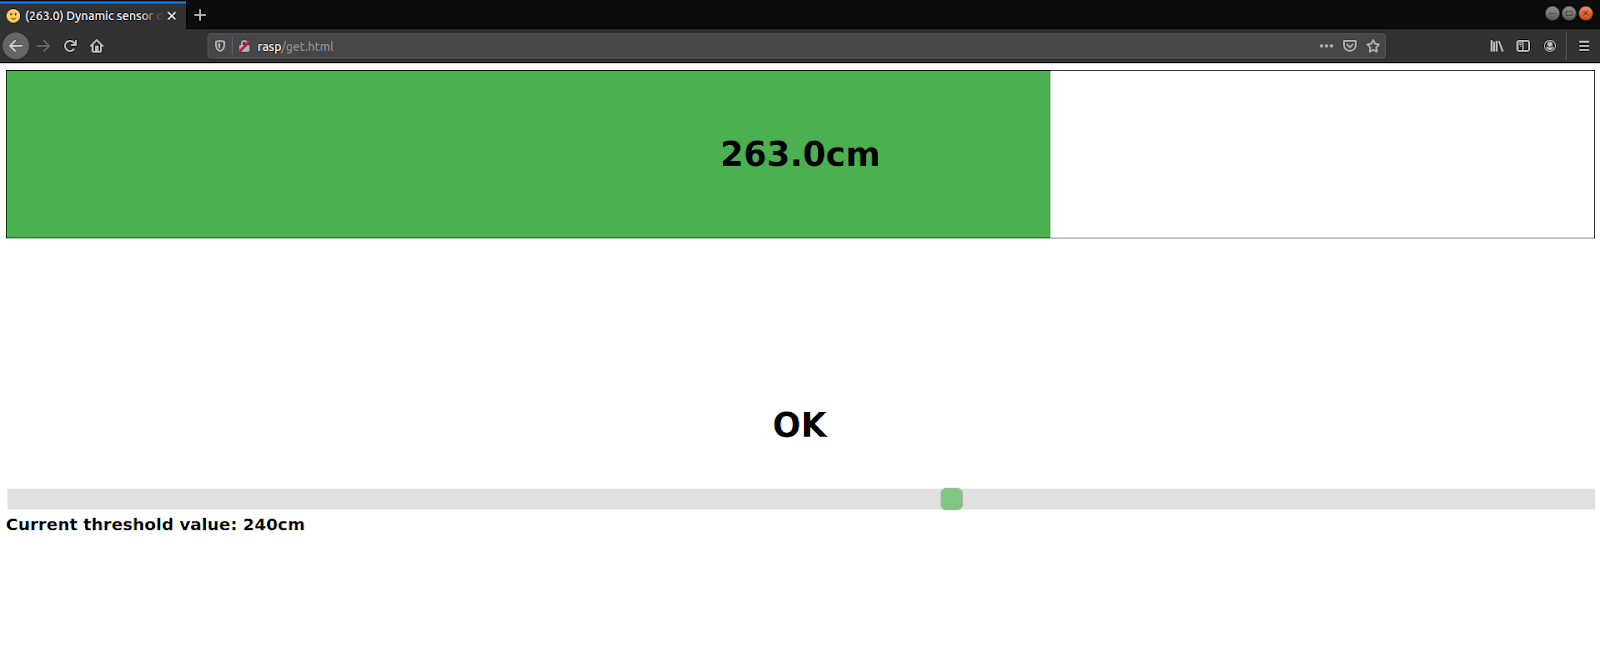
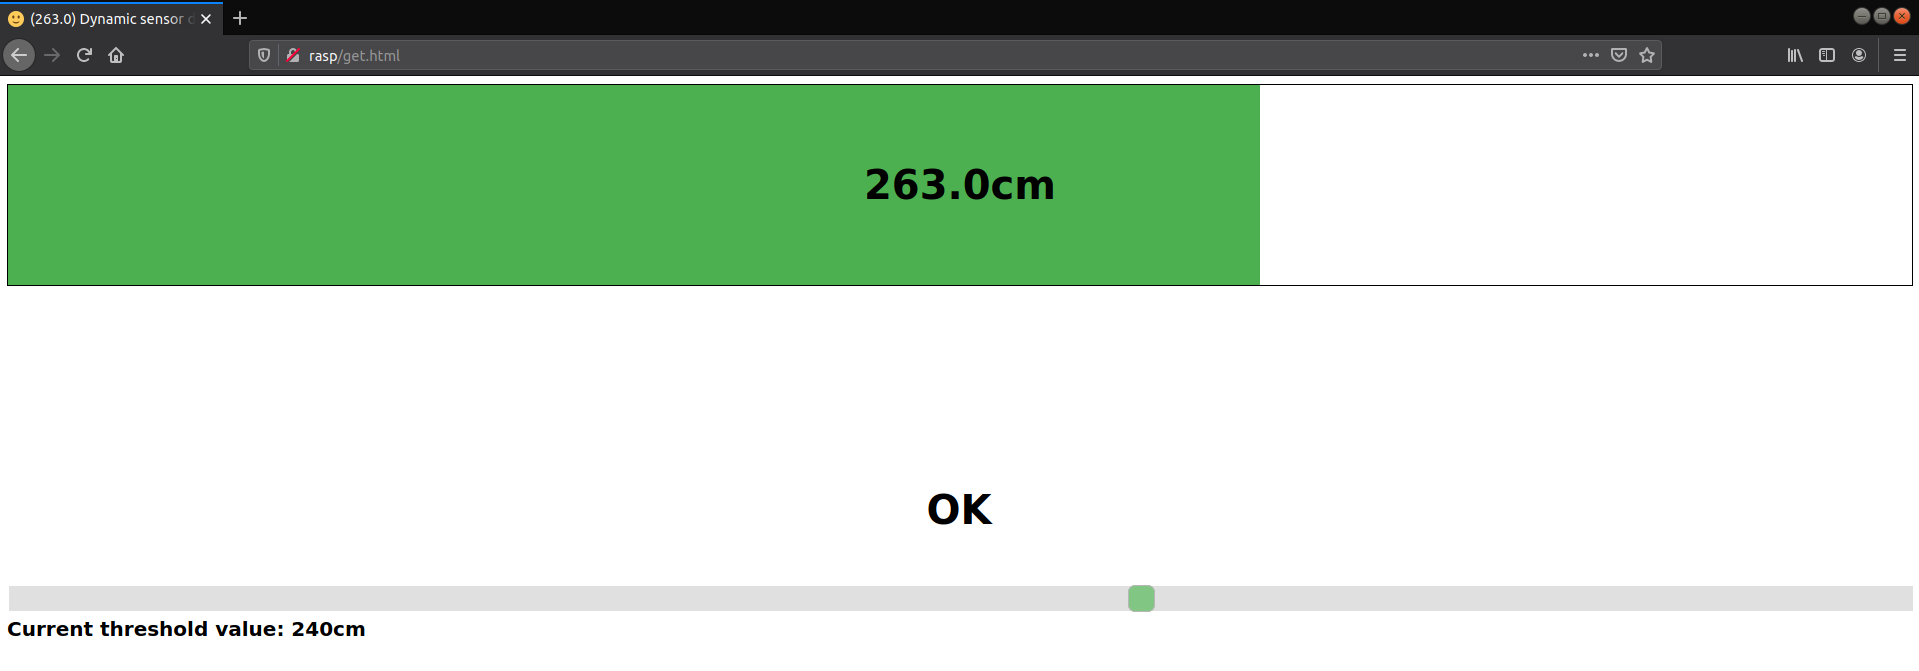
detail update

diff --git a/get.html b/get.html
@@ -35,7 +35,7 @@
 
   	<div class="progress-bar">
   		<div class="result" id ="sensor-data"></div>
-  		<div class = "progress-bar-fill"></div>
+  		<div class = "progress-bar-fill" id = "bar-fill"></div>
     </div>
 
     <div style = "margin-top: 200px; width: 100%; text-align: center">
@@ -104,9 +104,11 @@
 
 				        if (slider.value*4 > data){
 				        	document.getElementById('info').innerHTML = "Move away";
+							document.getElementById('bar-fill').style.backgroundColor = "red";
 				        	set_favicon(false);
 				        } else{
 				        	document.getElementById('info').innerHTML = "OK";
+							document.getElementById('bar-fill').style.backgroundColor = "#4CAF50";
 				        	set_favicon(true);
 				        }
 

diff --git a/README.md b/README.md
@@ -355,9 +355,11 @@ function get_data() {
                 //changes start here
                 if (slider.value*4 > data){
                     document.getElementById('info').innerHTML = "Move away";
+                    document.getElementById('bar-fill').style.backgroundColor = "red";
                     set_favicon(false);
                 } else{
                     document.getElementById('info').innerHTML = "OK";
+                    document.getElementById('bar-fill').style.backgroundColor = "#4CAF50";
                     set_favicon(true);
                 }
 
@@ -370,6 +372,7 @@ function get_data() {
 ```
 The if statement determines whether the threshold value has been exceeded or not and depending on that we are either notified (by an angry emoji and a subtle hint to stay back) that we are too close or informed that our distance is appropriate. 
 The slider value is multiplied by 4 because the slider is designed to have values from 0-100 (kind of like the progress bar) and as mentioned earlier, I have settled for 400cm being the maximum range.
+One final touch: this is optional but it looks cool - let's make the progress bar change color when the threshold value is exceeded. This is just two lines of code (snippet above).
 
 And that’s it!
 We can now test our website. Once again, all the HTML/JS snippets put together into one file are available on the repository (```get.html``` file, remember to copy it to ```/var/www/html directory```). 
